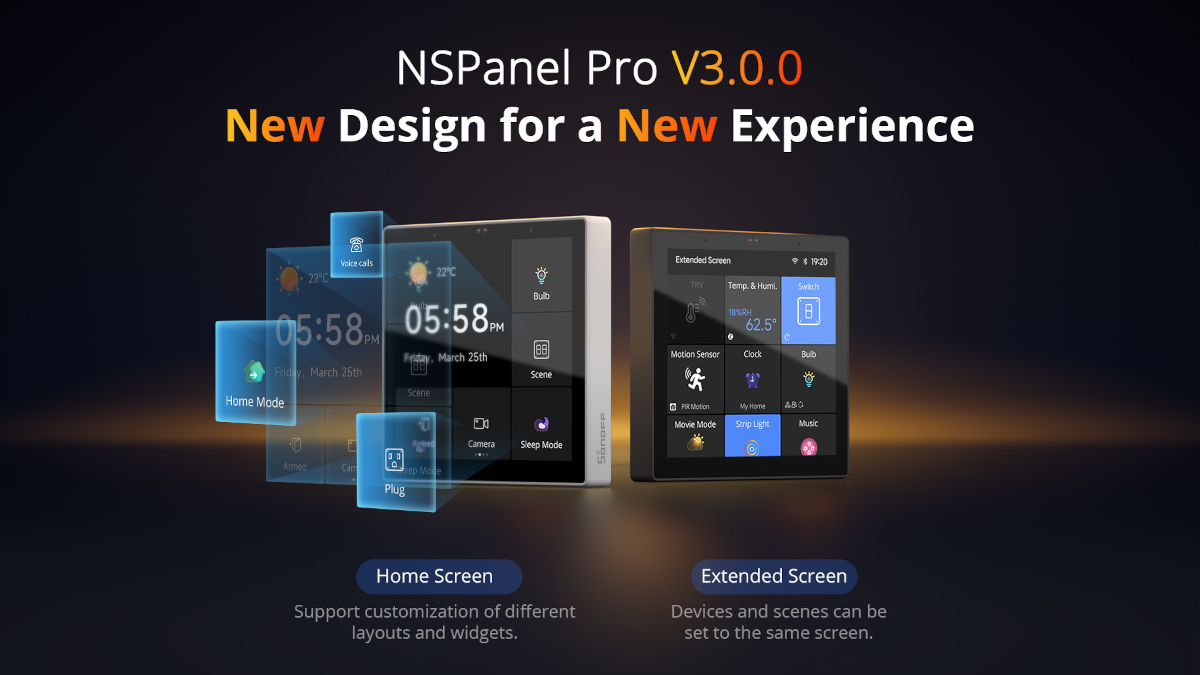
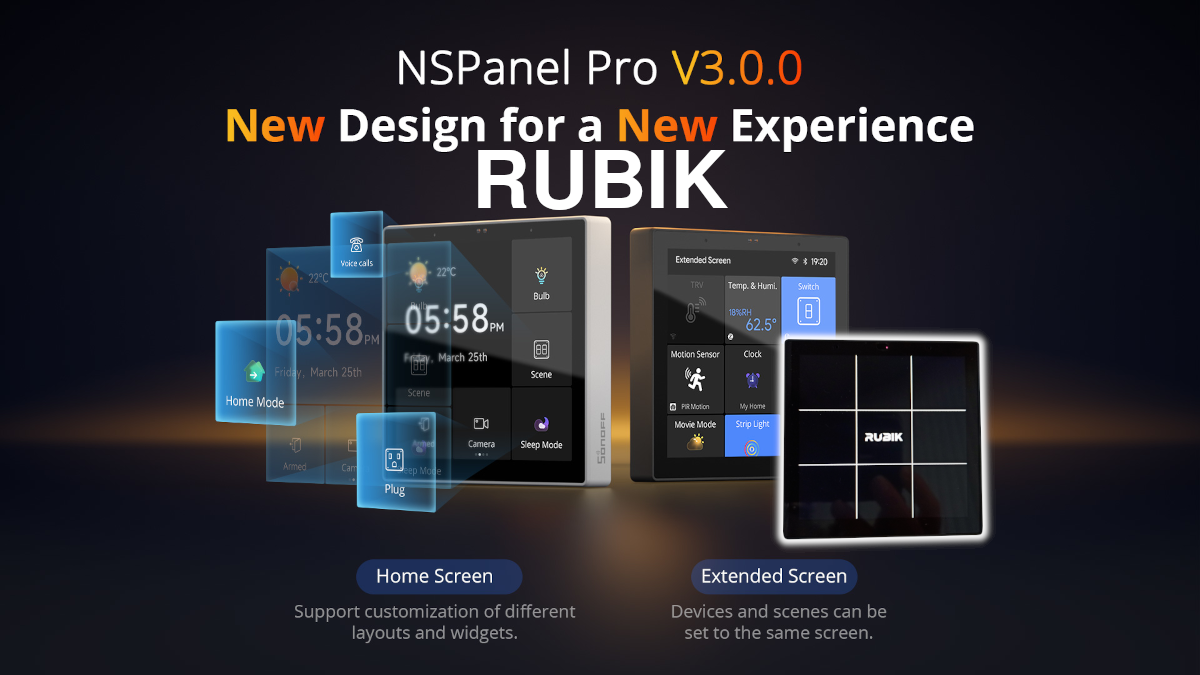
online post 117

Changed region(s): [[0.6475, 0.4667, 0.8325, 0.84], [0.4008, 0.2178, 0.6167, 0.3111]]

diff --git a/_posts/fr/2024-04-03-mise-a-jour-nspanel-pro-firmware-3-0-0-nouvelle-interface-rubik-extra.md b/_posts/fr/2024-04-03-mise-a-jour-nspanel-pro-firmware-3-0-0-nouvelle-interface-rubik-extra.md
@@ -1,0 +1,121 @@
+---
+guid: 117
+title: "Mise à jour Nspanel Pro 3.0 Rubik Design"
+description: "Présentation de Rubik la nouvelle interface utilisateur du Nspanel Pro pour une nouvelle expérience prend des aires de Rbuki's cube."
+ref: "NSPanel Pro"
+layout: post
+authors: [Nico]
+date: 2024-04-03 18:00
+last_modified_at: 
+categories: [News, Zigbee]
+tags: []
+image: 'nspanel-pro-firmware-upgrade-v3-0-0-rubik-design.png'
+toc: true
+beforetoc: ''
+published: true
+noindex: false
+sitemap:
+  changefreq: 'monthly'
+  exclude: 'no'
+  priority: 0.5 #between 0.0 to 1.0, 1.0 high priority
+  lastmod:  # date to end modification
+locale: fr_FR
+comments: true
+rating:  
+sourcelink:
+  - https://sonoff.tech/nspanelpro-api/
+  - https://sonoff.tech/product-review/product-insight/sonoff-nspanel-pro-version-update-information-and-faq/
+  - https://itead.cc/product/sonoff-nspanel-pro-smart-home-control-panel/ref/122/
+---
+
+Sonoff fait évoluer l'interface utilisateur (UI) du {{ page.ref }}, la version 3.0.0 intègre **Rubik** un module d'interface qui **t'ouvres les champs du possible**. L'entreprise ne cesse de faire évoluer les firmwares des modules Zigbee, et ça prouve que **cette société est sérieuse**. 
+
+> Rubik a certainement été empreinté au célèbre jeu le Rubik's cube, l'interface en quadrillage y fait pleinement référence.
+
+{% picture posts/{{ page.guid }}/capture-ewelink-nspanel-pro-v-3-rubik-interface-choix-du-theme-affichage-multi-possibilites.png --alt Changement du thème principal Rubik sur le NSPanel Pro --img width="369" height="800" %}
+
+> Je dois dire que pour l'avoir testé cette nouvelle interface est facile à mettre en place.
+
+{% include product-embed.html image="https://i0.wp.com/itead.cc/wp-content/uploads/2022/07/NSPanel-P_preorder_dim_gray.jpg?fit=1000%2C1000&ssl=1" title="Controleur Sonoff Nspanel Pro" brand="Sonoff" description="Controleur Sonoff Nspanel Pro avec zigbee 3.0 et wifi intégré" affiliate="_DCgKVON" domlink="objets-connectes/6625-sonoff-interrupteur-mural-noir-zigbee-30-nspanel-pro.html" iteadlink="sonoff-nspanel-pro-smart-home-control-panel" %}
+
+
+## Interface Rubik sur {{ page.ref }}
+
+Ci-dessous j'ai pris des captures d'écran de l'ancienne interface avec le thème par défaut, avec **sur la 3ème** image une capture d'écran du démarrage du Sonoff {{ page.ref }}, **quand à la 4ème** image elle montre une page étendue avec un module d'installé mais désactivé dans le coin supérieur gauche.
+
+{% picture posts/{{ page.guid }}/capture-ecran-nspanel-pro-rubik-v-3-0-0-ancienne-interface.png --alt Capture d'ecran de l'ancienne interface avec le thème principal Rubik installé sur le NSPanel Pro --img width="940" height="529" %}
+
+*Là nous avons à faire à la nouvelle interface,*
+
+1. la 1ère image montre le **thème par défaut**
+2. la seconde image un **thème Rubik** avec des modules installés sur le pourtour
+3. la 3ème montre le changement de la **page de réglage sur fond transparent**
+4. La dernière est un thème différent avec en principal, l'onglet **reminder** qui te permettras d'afficher un message à partir du téléphone.
+
+{% picture posts/{{ page.guid }}/capture-ecran-nspanel-pro-rubik-v-3-0-0.png --alt Capture d'écran avec une nouvelle interface du thème principal Rubik sur le NSPanel Pro --img width="940" height="529" %}
+
+## Paramétrage Ewelink {{ page.ref }}
+
+Sur la capture de [l'application Ewelink](https://play.google.com/store/apps/details?id=com.coolkit&hl=fr&gl=US){: target="_blank"} ci-dessous tu pourras te rendre compte de **3 nouveaux onglets:**
+
+1. Paramètre du thème
+2. Gestion des pages supplémentaires (extension, settings)
+3. Paramétrage des **rappels écris** avec options (reminder)
+
+{% picture posts/{{ page.guid }}/capture-ewelink-nspanel-pro-v-3-rubik-interface.png --alt Ewelink capture mise à jour NSPanel Pro v3.0.0 --img width="940" height="1018" %}
+
+Déjà **présent sur la précédente version** du firmware tu pourras changer le **mode Zigbee**.
+
+> alors à première vue ça pourrait être super sympa mais il n'en est rien.
+
+Déjà si tu changes de mode tu dois passer par un **reset de l'ensemble des paramètres**
+le **mode Hub** permet d'utiliser le {{ page.ref }} comme un coordinateur zigbee.
+le **mode router** permet au NSPanel d'être contrôlé par un autre coordinateur comme Zigbee2Mqtt.
+
+> mais à l'heure actuelle aucune infos ne remontent du {{ page.ref }} **dans Z2M donc aucune utilité**.
+
+{% picture posts/{{ page.guid }}/capture-ewelink-nspanel-pro-v-3-rubik-mode-zigbee-router-hub.png --alt Ewelink capture mise à jour NSPanel Pro v3.0.0 mode zigbee hub ou routeur --img width="940" height="1018" %}
+
+Sur l'image ci-dessous accès aux **paramètres d'écrans supplémentaires et Reminder**.
+
+L'écran supplémentaire te permettras de créer d'autres pages avec divers modules à contrôler. Ces pages peuvent êtres paramétrées pour êtres accessibles à partir **d'un mot de passe** ce qui est super pratique.
+
+L'écran reminder te permet de **rédiger un texte tu téléphone** tu pourras l'envoyer simplement et rajouter soit une:
+
+- **haute priorité** qui affichera une popup sur tout l'écran du NSPanel Pro
+- ou envoyer **sous forme de notification** à cliquer qui te renverras vers le popup.
+
+{% picture posts/{{ page.guid }}/capture-ewelink-nspanel-pro-v-3-rubik-mode-extented-reminder.png --alt Ewelink capture mise à jour NSPanel Pro v3.0.0 parametrage extended ecran et reminder --img width="940" height="1018" %}
+
+Enfin j'ai créé un gif animé de navigation sur l'application **Ewelink**, comme ça, ça t'éviteras toutes questions sur le fonctionnement du Sonoff {{ page.ref }} v3.0.0.
+
+![Navigation sur Ewelink pour le paramétrage Rubik nspanel pro v3.0.0]({{ site.baseurl }}/assets/images/posts/{{ page.guid }}/nspanel-pro-v3-ewelink-rubik.webp{{ cachebuster }}){: width="388" height="690"}
+
+## Mise à jour depuis la version 2.2.0
+
+### V3.0.0 (15 Mars 2024）
+
+1. Nouvelle conception de l'interface utilisateur **RUBIK**. Prise en charge de la personnalisation des mises en page et des widgets de l'écran d'accueil
+2. Les **appareils et les scènes** peuvent être définis sur le même **écran étendu** (extender screen )
+3. Prise en charge des appels bidirectionnels avec l'application CAST
+4. Prise en charge de l'ajout de la fonction des interrupteurs de lumière **Matter** et de la fonction couleur et chaleur des ampoules **Matter**
+5. Animation de démarrage mise à jour
+
+### V2.4.0 (janvier. 16 2024)
+
+1. Prend en charge **l'ajout de ponts Matter** et vous pouvez synchroniser les appareils de commutation sous le pont avec NSPanel Pro.
+2. Nouvelle langue ajoutée : **Lettonien**
+
+### V2.3.0 (déc. 12, 2023）
+
+1. Prend en charge la commutation de l'unité de température du thermostat, **vous pouvez la régler sur ℃ ou ℉** dans l'application.
+2. Prise en charge de l'ajout de **dispositifs d'éclairage Matter**.
+3. Lorsque la fonction Bluetooth est activée, **l'icône Bluetooth s'affiche** dans le coin supérieur droit de l'écran.
+
+{% include product-embed.html image="https://i0.wp.com/itead.cc/wp-content/uploads/2022/07/NSPanel-P_preorder_dim_gray.jpg?fit=1000%2C1000&ssl=1" title="Controleur Sonoff Nspanel Pro" brand="Sonoff" description="Controleur Sonoff Nspanel Pro avec zigbee 3.0 et wifi intégré" affiliate="_DCgKVON" domlink="objets-connectes/6625-sonoff-interrupteur-mural-noir-zigbee-30-nspanel-pro.html" iteadlink="sonoff-nspanel-pro-smart-home-control-panel" %}
+
+## Conclusion
+
+Le **thème Rubik** du nouveau firmware v3.0.0 du {{ page.ref }} est sincèrement **une réussite** qui permet de contrôler facilement les modules de l'environnement Sonoff. Si tu décides de t'équiper **exclusivement de cette marque** alors le Sonoff {{ page.ref }} **est fait pour toi**. Sincèrement il ne manque plus que **l'environnement Cube** de Sonoff.
+
+> Qui rendrait compatible cet écran avec d'autres marques ainsi tu pourrais te faire une installation centralisée et WAF, mais pour l'instant ce n'est pas le cas, peut-être que ça le deviendra !

diff --git a/_posts/en/2024-04-03-nspanel-pro-firmware-3-0-0-new-interface-rubik-extra.md b/_posts/en/2024-04-03-nspanel-pro-firmware-3-0-0-new-interface-rubik-extra.md
@@ -1,0 +1,121 @@
+---
+guid: 117
+title: "Nspanel Pro 3.0 Rubik Design Update"
+description: "Presentation of Rubik the new user interface of Nspanel Pro for a new experience takes areas of Rbuki's cube."
+ref: "NSPanel Pro"
+layout: post
+authors: [Nico]
+date: 2024-04-03 18:00
+last_modified_at: 
+categories: [News, Zigbee]
+tags: []
+image: 'nspanel-pro-firmware-upgrade-v3-0-0-rubik-design.png'
+toc: true
+beforetoc: ''
+published: true
+noindex: false
+sitemap:
+  changefreq: 'monthly'
+  exclude: 'no'
+  priority: 0.5 #between 0.0 to 1.0, 1.0 high priority
+  lastmod:  # date to end modification
+locale: en_GB
+comments: true
+rating:  
+sourcelink:
+  - https://sonoff.tech/nspanelpro-api/
+  - https://sonoff.tech/product-review/product-insight/sonoff-nspanel-pro-version-update-information-and-faq/
+  - https://itead.cc/product/sonoff-nspanel-pro-smart-home-control-panel/ref/122/
+---
+
+Sonoff evolves the user interface (UI) of {{ page.ref }}, version 3.0.0 integrates **Rubik** an interface module which **opens up the fields of possibility** for you. The company continues to upgrade the firmware of Zigbee modules, and this proves that **this company is serious**.
+
+> Rubik was certainly inspired by the famous game Rubik's cube, the grid interface is a full reference to it.
+
+{% picture posts/{{ page.guid }}/capture-ewelink-nspanel-pro-v-3-rubik-interface-choix-du-theme-affichage-multi-possibilites.png --alt Changing the main Rubik theme on the NSPanel Pro --img width="369" height="800" %}
+
+> I must say that having tested it, this new interface is easy to set up.
+
+{% include product-embed.html image="https://i0.wp.com/itead.cc/wp-content/uploads/2022/07/NSPanel-P_preorder_dim_gray.jpg?fit=1000%2C1000&ssl=1" title="Sonoff Nspanel Pro controller" brand="Sonoff" description="Sonoff Nspanel Pro controller with zigbee 3.0 and integrated wifi" affiliate="_DCgKVON" domlink="high-tech/6625-sonoff-nspanel-pro-black-zigbee-30-wall-switch.html" iteadlink="sonoff-nspanel-pro-smart-home-control-panel" %}
+
+
+## Rubik interface on {{ page.ref }}
+
+Below I took screenshots of the old interface with the default theme, with **on the 3rd** image a screenshot of the Sonoff startup {{ page.ref }}, * *when in the 4th** image it shows an extended page with a module installed but disabled in the upper left corner.
+
+{% picture posts/{{ page.guid }}/capture-ecran-nspanel-pro-rubik-v-3-0-0-ancienne-interface.png --alt Screenshot of the old interface with the main Rubik theme installed on the NSPanel Pro --img width="940" height="529" %}
+
+*Here we have to deal with the new interface,*
+
+1. 1st image shows **default theme**
+2. the second image a **Rubik theme** with modules installed around the edge
+3. the 3rd shows the change of the **setting page on a transparent background**
+4. The last one is a different theme with mainly the **reminder** tab which will allow you to display a message from the phone.
+
+{% picture posts/{{ page.guid }}/capture-ecran-nspanel-pro-rubik-v-3-0-0.png --alt Screenshot with new interface of main Rubik theme on NSPanel Pro --img width="940" height="529" %}
+
+## Ewelink settings {{ page.ref }}
+
+On capturing [the Ewelink app](https://play.google.com/store/apps/details?id=com.coolkit&hl=fr&gl=US){: target="_blank"} below you will see **3 new tabs:**
+
+1. Theme Setting
+2. Management of additional pages (extension, settings)
+3. Setting **written reminders** with options (reminder)
+
+{% picture posts/{{ page.guid }}/capture-ewelink-nspanel-pro-v-3-rubik-interface.png --alt Ewelink capture update NSPanel Pro v3.0.0 --img width="940" height="1018" %}
+
+Already **present on the previous version** of the firmware you will be able to change the **Zigbee mode**.
+
+> so at first glance it could be really nice but it's not.
+
+Already if you change mode you have to go through a **reset of all parameters**
+**Hub mode** allows you to use the {{ page.ref }} as a zigbee coordinator.
+**router mode** allows the NSPanel to be controlled by another coordinator like Zigbee2Mqtt.
+
+> but at present no information comes from {{ page.ref }} **in Z2M so no use**.
+
+{% picture posts/{{ page.guid }}/capture-ewelink-nspanel-pro-v-3-rubik-mode-zigbee-router-hub.png --alt Ewelink capture update NSPanel Pro v3.0.0 mode zigbee hub or router --img width="940" height="1018" %}
+
+In the image below access to **additional screen settings and Reminder**.
+
+The additional screen will allow you to create other pages with various modules to control. These pages can be configured to be accessible from **a password** which is super practical.
+
+The reminder screen allows you to **write a text when you call** you can simply send it and add either:
+
+- **high priority** which will display a popup on the entire NSPanel Pro screen
+- or send **as a notification** to click which will send you to the popup.
+
+{% picture posts/{{ page.guid }}/capture-ewelink-nspanel-pro-v-3-rubik-mode-extented-reminder.png --alt Ewelink capture update NSPanel Pro v3.0.0 extended screen settings and reminder --img width="940" height="1018" %}
+
+Finally I created an animated navigation gif on the **Ewelink** application, like that, you will avoid any questions about the operation of Sonoff {{ page.ref }} v3.0.0.
+
+![Navigation on Ewelink for Rubik nspanel pro v3.0.0 settings]({{ site.baseurl }}/assets/images/posts/{{ page.guid }}/nspanel-pro-v3-ewelink-rubik.webp{{ cachebuster }}){: width="388" height="690"}
+
+## Updated from version 2.2.0
+
+### V3.0.0（Mar. 15th, 2024）
+
+1. **New UI design.** Support customizing the layouts and widgets of the home screen
+2. **Devices and scenes** can be set on the same extended screen
+3. Support two-way call with CAST App
+4. Support **adding Matter Light Switch and Matter Color Temperature Light**
+5. Boot animation updated
+
+### V2.4.0（Jan. 16th, 2024）
+
+1. Support **adding Matter bridges**, and you can sync switch devices under the bridge to NSPanel Pro.
+2. New language added: **Latviešu**
+
+### V2.3.0（Dec. 12th, 2023）
+
+1. Support switching the temperature unit of thermostat, you can set it for **℃ or℉** in the App. 
+2. Support **adding Matter light devices**.
+3. When the Bluetooth function is turned on, the **Bluetooth icon will be displayed** in the upper right corner of the screen.
+
+{% include product-embed.html image="https://i0.wp.com/itead.cc/wp-content/uploads/2022/07/NSPanel-P_preorder_dim_gray.jpg?fit=1000%2C1000&ssl=1" title="Sonoff Nspanel Pro controller" brand="Sonoff" description="Sonoff Nspanel Pro controller with zigbee 3.0 and integrated wifi" affiliate="_DCgKVON" domlink="high-tech/6625-sonoff-nspanel-pro-black-zigbee-30-wall-switch.html" iteadlink="sonoff-nspanel-pro-smart-home-control-panel" %}
+
+## Conclusion
+
+The **Rubik theme** of the new firmware v3.0.0 of {{ page.ref }} is sincerely **a success** which allows you to easily control the modules of the Sonoff environment. If you decide to equip yourself **exclusively with this brand** then the Sonoff {{ page.ref }} **is made for you**. Honestly, all that's missing is Sonoff's **Cube** environment.
+
+> Which would make this screen compatible with other brands so you could have a centralized installation and WAF, but for the moment this is not the case, maybe it will become so!
